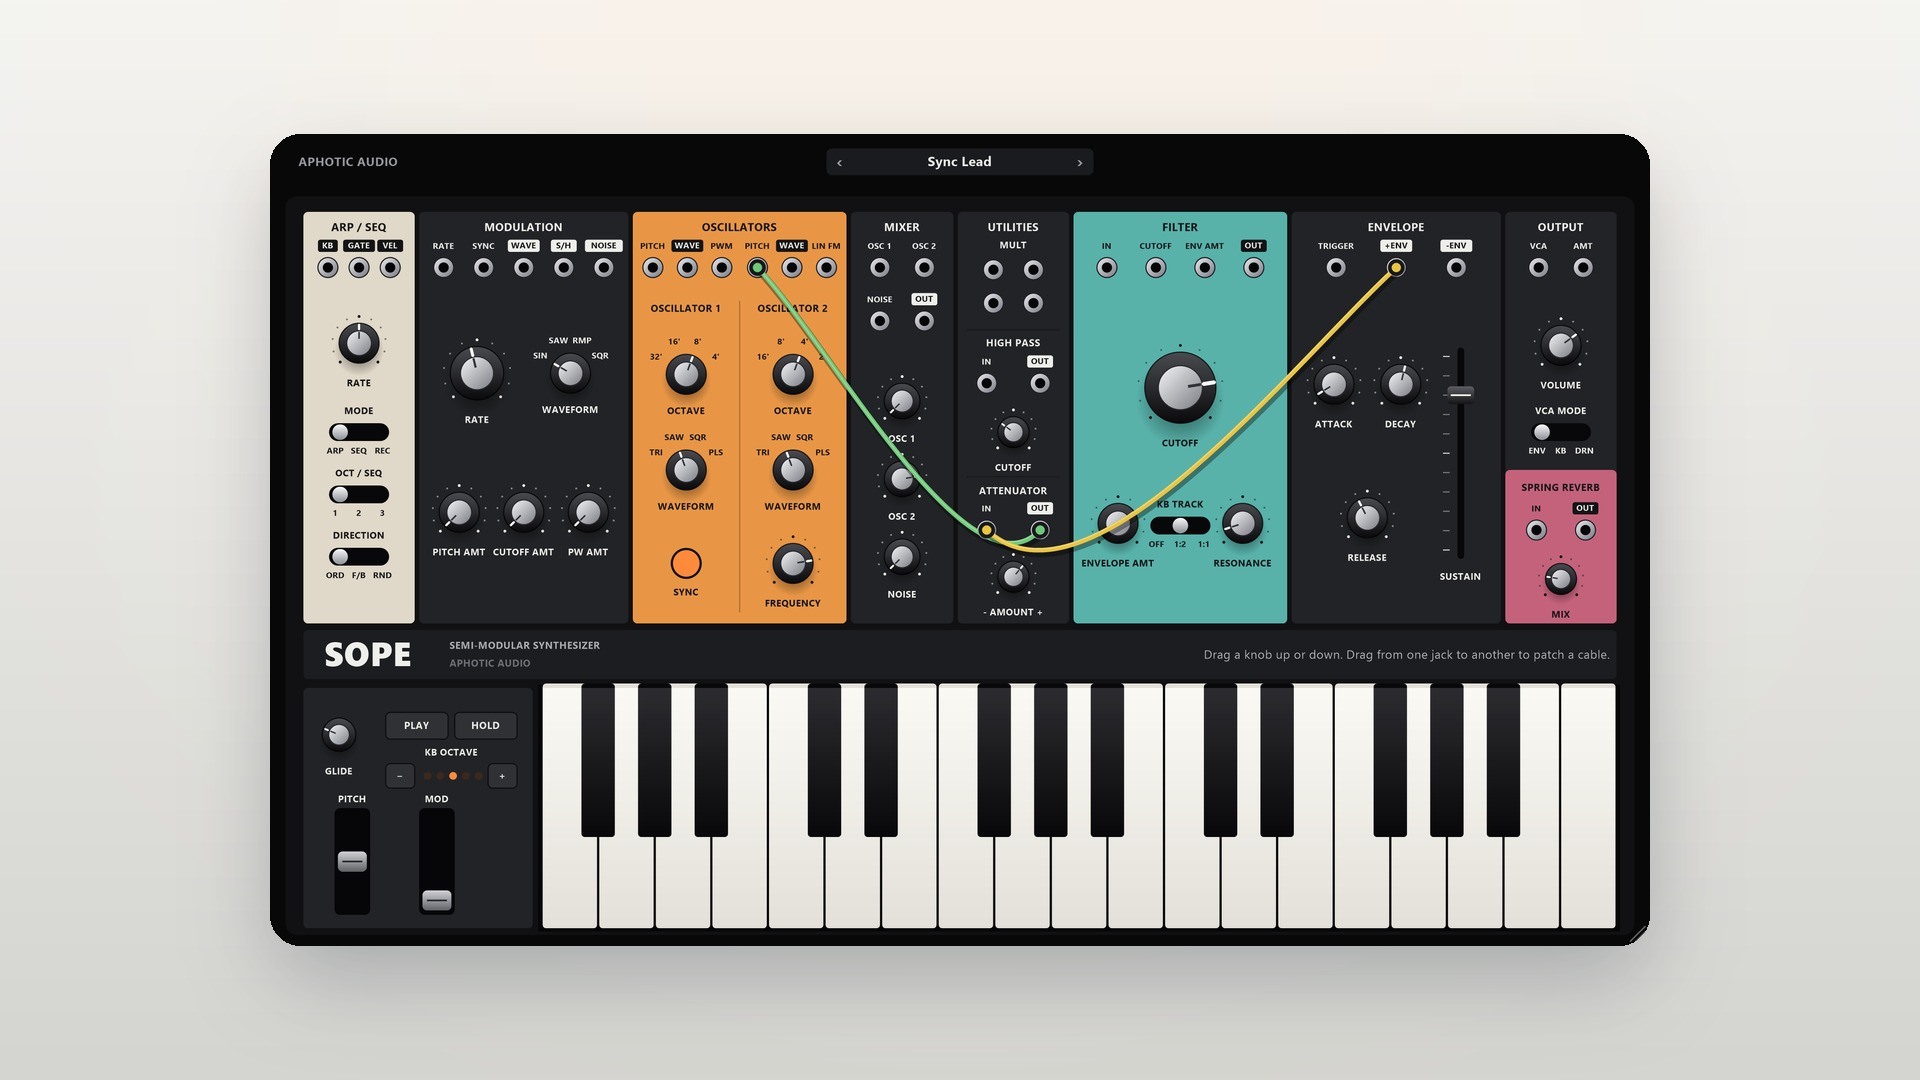
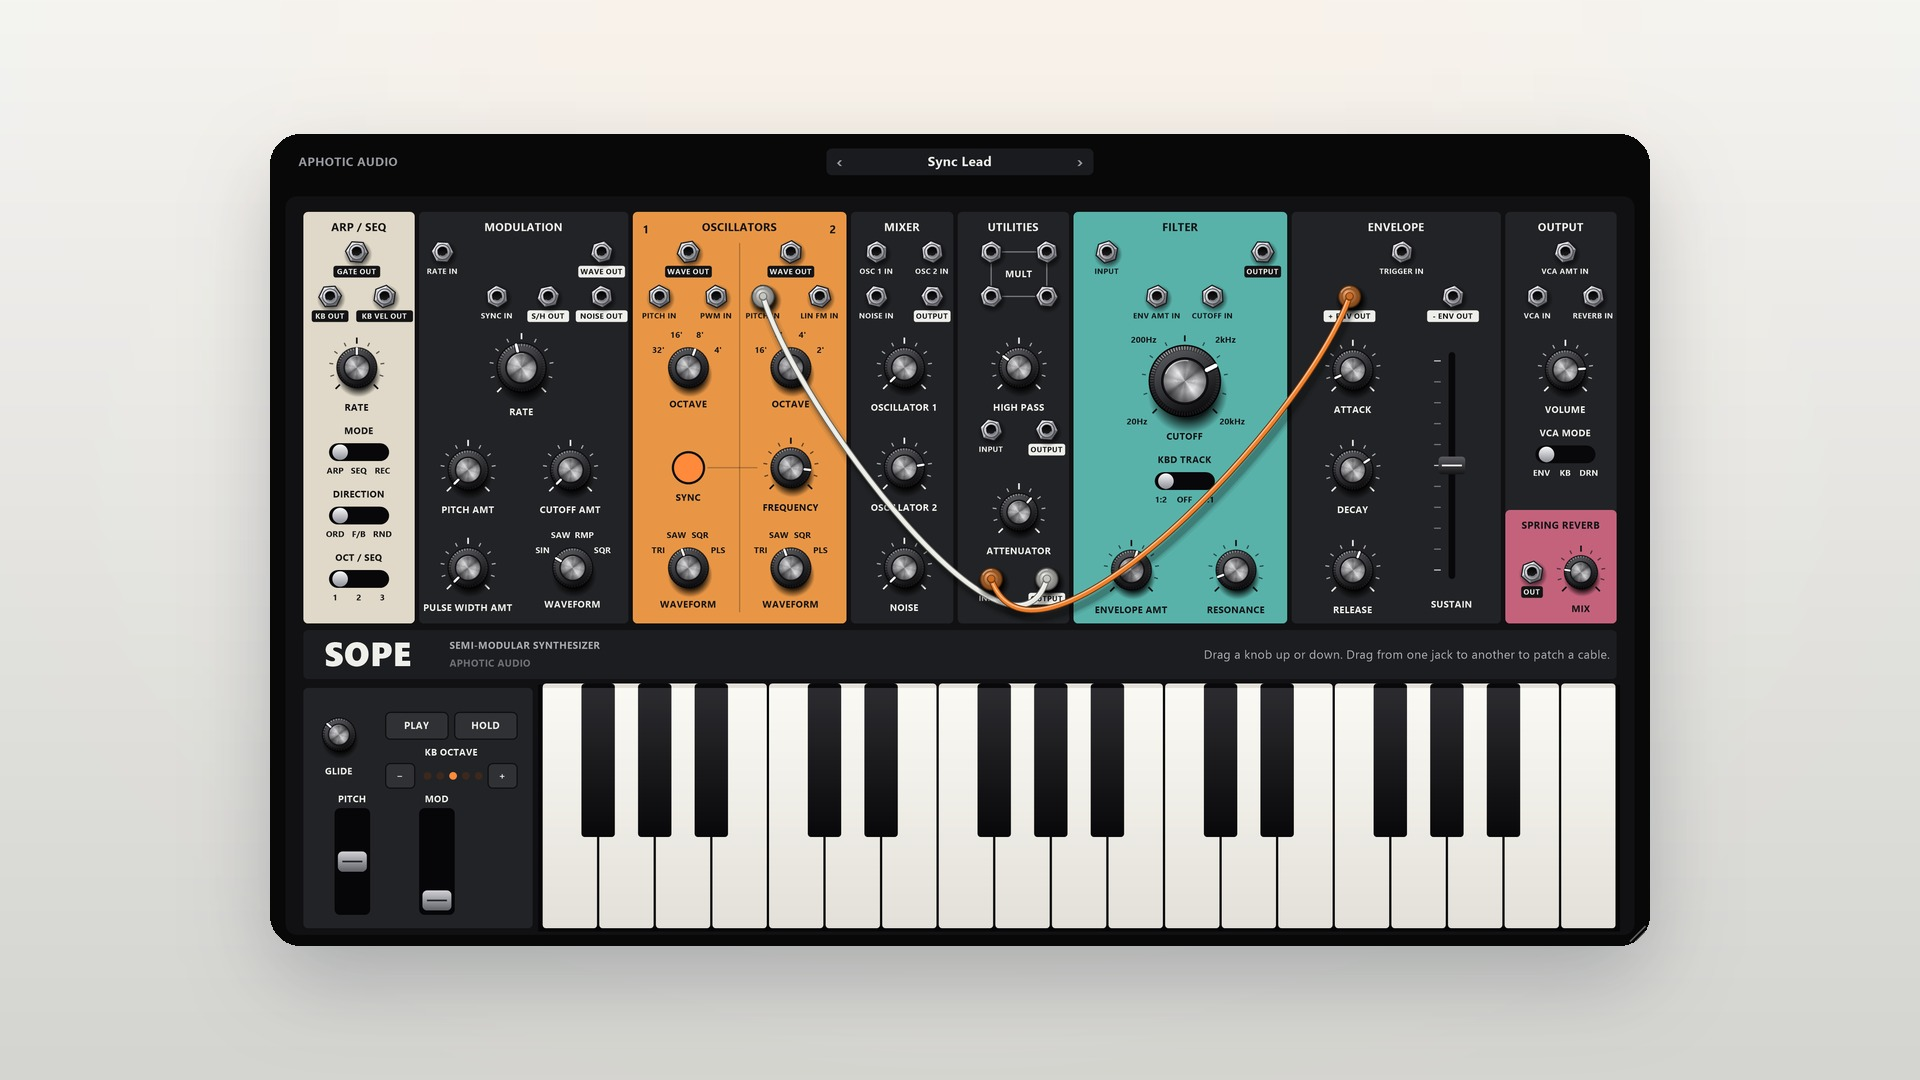
SOPE 1.1.0 store pictures (new panel layout, knobs, jacks and cables); 34 presets

Changed region(s): [[0.1562, 0.2139, 0.8438, 0.5806], [0.1562, 0.6722, 0.1875, 0.7028]]

diff --git a/index.html b/index.html
@@ -386,13 +386,13 @@ footer { background: var(--black); padding-block: 72px 40px; color: var(--on-dar
           <li>Two oscillators with hard sync, a mixer that overdrives and a four-pole ladder filter</li>
           <li>37 patch points, saved with your project and your presets</li>
           <li>LFO, sample &amp; hold, spring reverb, arpeggiator and a 256-note sequencer that follow your tempo</li>
-          <li>16 presets, save your own, on-screen keyboard</li>
+          <li>34 presets, save your own, on-screen keyboard</li>
           <li>Low CPU, resizable interface</li>
         </ul>
         <div class="buy"><span class="price" data-price="sope">$30</span><a class="btn solid" data-buy="sope" href="checkout.html?product=sope">Buy for $30</a></div>
         <p class="note" data-pay-note="sope">One-time purchase. Use your Hub email at checkout, then install in Aphotic Hub. Windows VST3 instrument (64-bit); not on Mac yet. Version <span data-version="sope">1.0.0</span>. Up to 3 computers per license.</p>
       </div>
-      <figure class="shot"><img src="img/sope.jpg" width="1600" height="1000" loading="lazy" alt="SOPE: a black synthesizer panel with cream, orange, teal and rose modules, silver-capped knobs, two patch cables hanging between jacks, and a 32-key keyboard"></figure>
+      <figure class="shot"><img src="img/sope.jpg" width="1600" height="1000" loading="lazy" alt="SOPE: a black synthesizer panel with cream, orange, teal and rose modules, silver-capped knobs, patch cables hanging between hex-nut jacks, and a 32-key keyboard"></figure>
     </div>
   </section>
 
